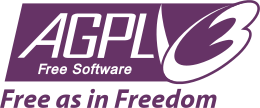
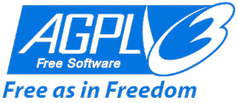
update readme

diff --git a/README.md b/README.md
@@ -117,7 +117,7 @@ $ curl -X POST "https://sfu.mirotalk.org/api/v1/meeting" -H "authorization: miro
 
 ## License
 
-[![License: AGPLv3](https://img.shields.io/badge/License-AGPLv3-blue.svg?style=for-the-badge&logo=AdGuard)](LICENSE)
+[![AGPLv3](public/images/AGPLv3.png)](LICENSE)
 
 <br/>
 
